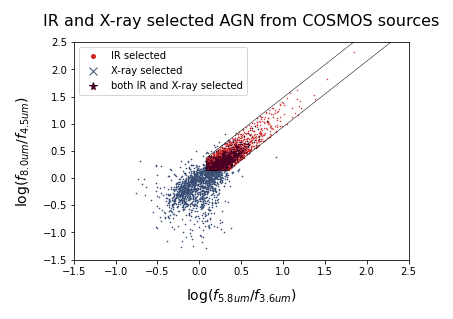
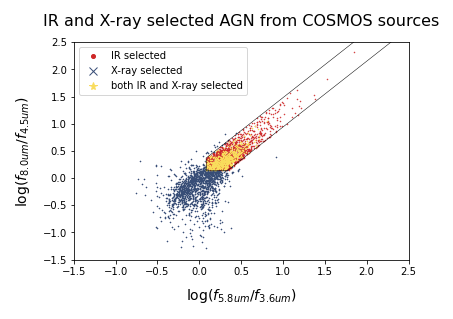
changed plot color from purple to yellow

Changed region(s): [[0.4327, 0.395, 0.5872, 0.5361], [0.1854, 0.2539, 0.2163, 0.2821]]

diff --git a/Code/plotting.py b/Code/plotting.py
@@ -3,9 +3,9 @@ import matplotlib as mpl
 
 
 # color constants
-c_ir        = '#CE2727'     # use this for IR sources
-c_xray      = '#384E77'     # use this for Xray sources
-c_ir_xray   = '#470024'     # use this for matched IR and Xray sources
+c_ir        = '#CE2727'     # Fire Engine Red   # use this for IR sources
+c_xray      = '#384E77'     # Y In Mn Blue      # use this for Xray sources
+c_ir_xray   = '#F9DC5C'     # Naples Yellow     # use this for matched IR and Xray sources
 
 
 # redefine the defaults for plots
